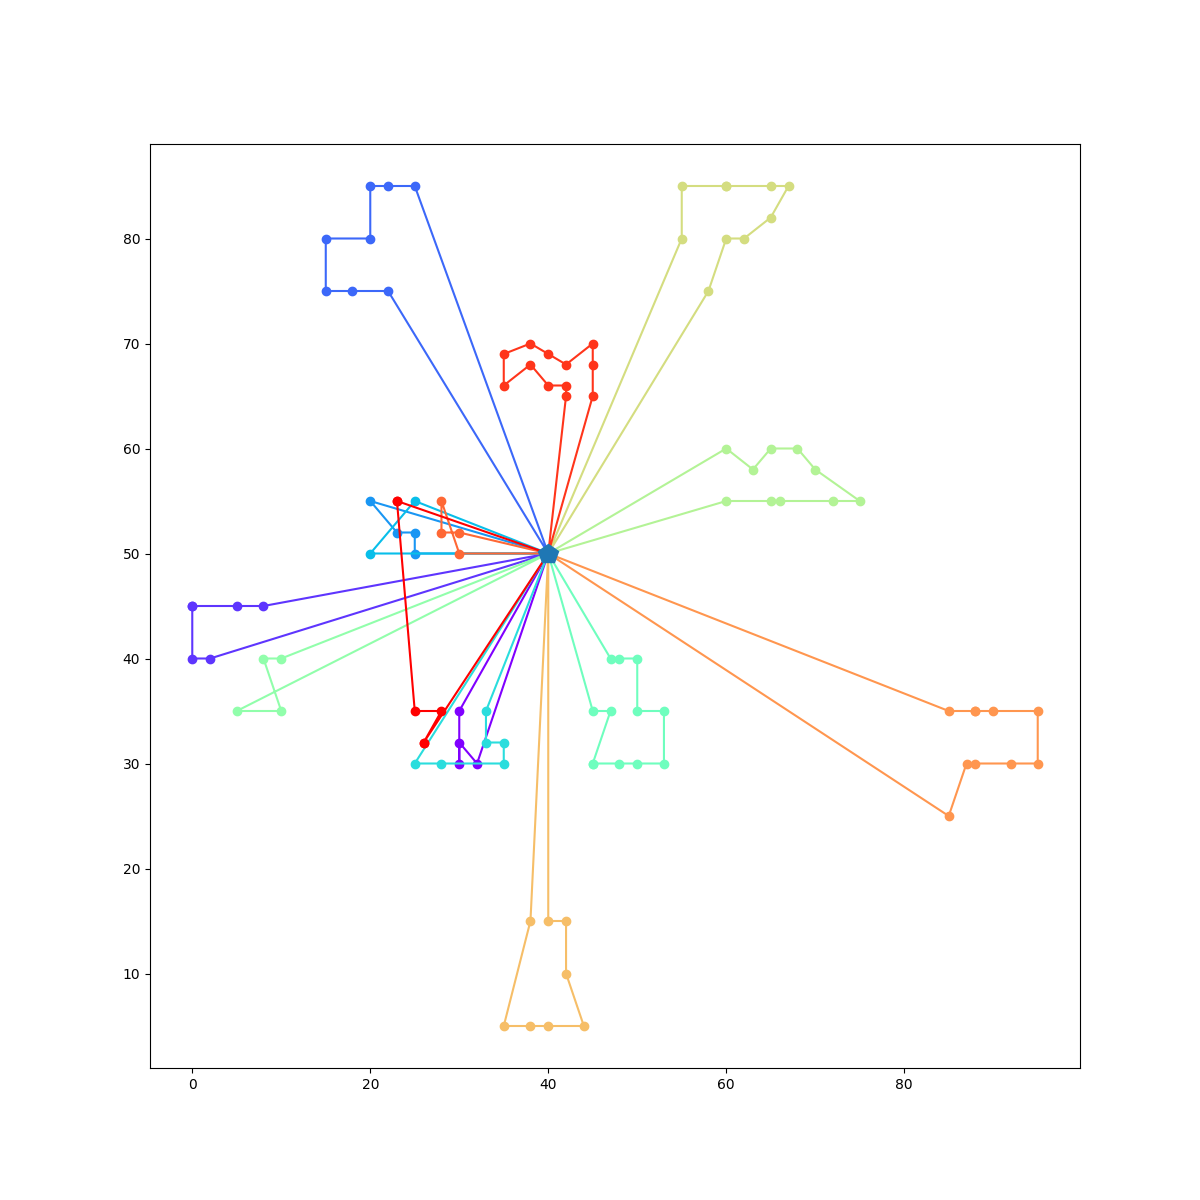
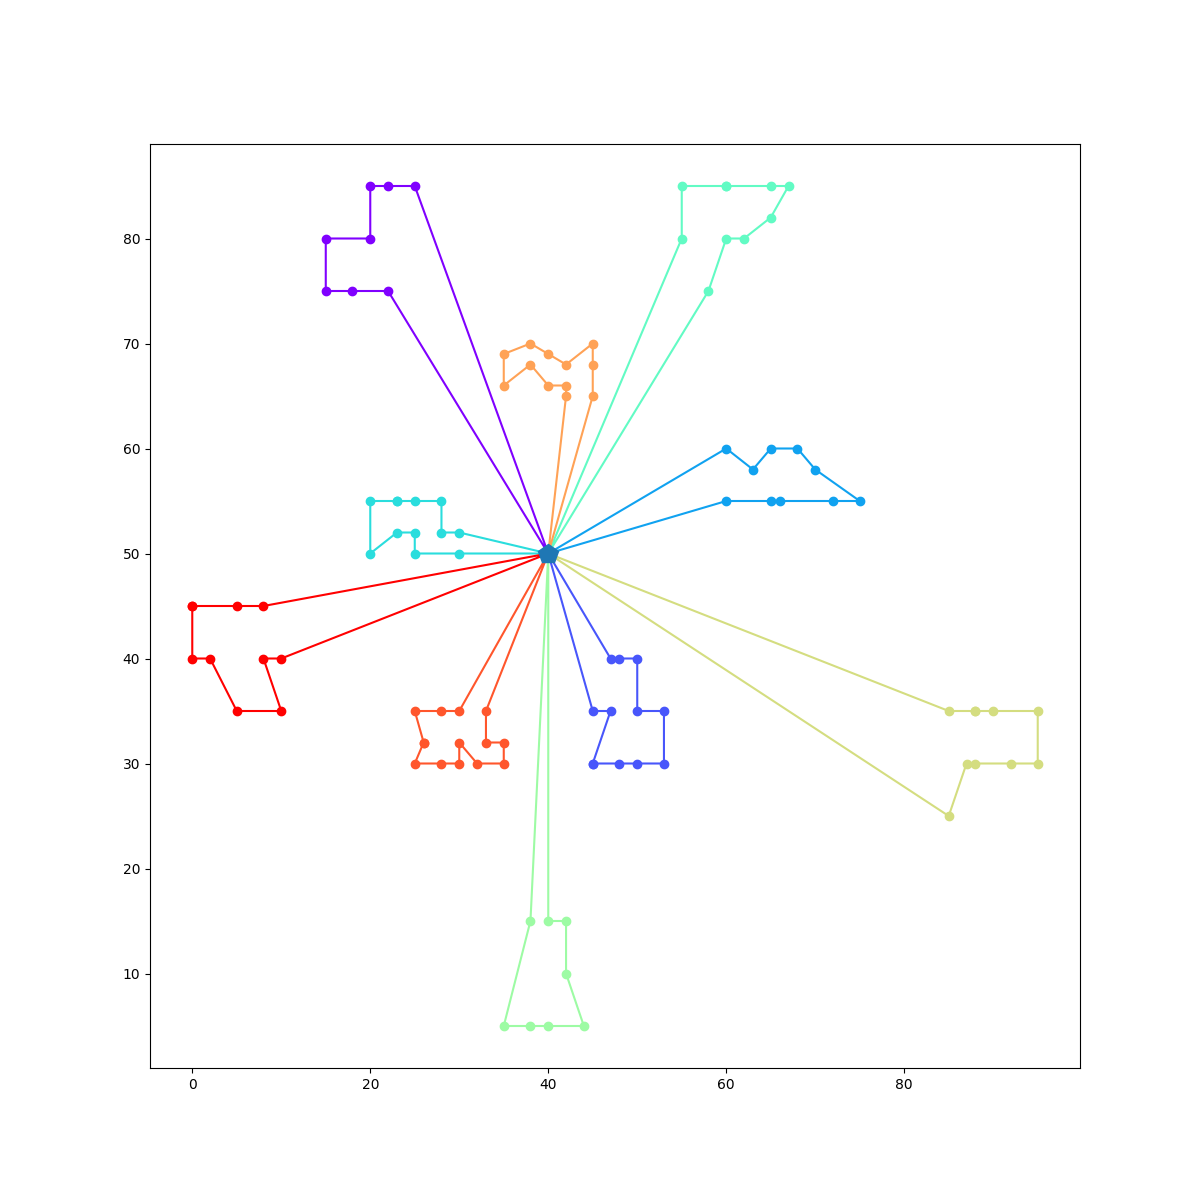
Use greedy insertion for initial solution

diff --git a/ALNS.py b/ALNS.py
@@ -54,8 +54,8 @@ class ALNS:
         Method that constructs an initial solution using random insertion
         """
         self.currentSolution = Solution(self.problem,list(),list(),list(self.problem.requests.copy()))
-        self.currentSolution.executeRandomInsertion(self.randomGen)
-        #self.currentSolution.executeGreedyInsertion(self.randomGen)
+        #self.currentSolution.executeRandomInsertion(self.randomGen)
+        self.currentSolution.executeGreedyInsertion(self.randomGen)
         #self.currentSolution.executeRegretInsertion(self.randomGen)
         self.currentSolution.computeDistance()
         self.bestSolution = self.currentSolution.copy()
